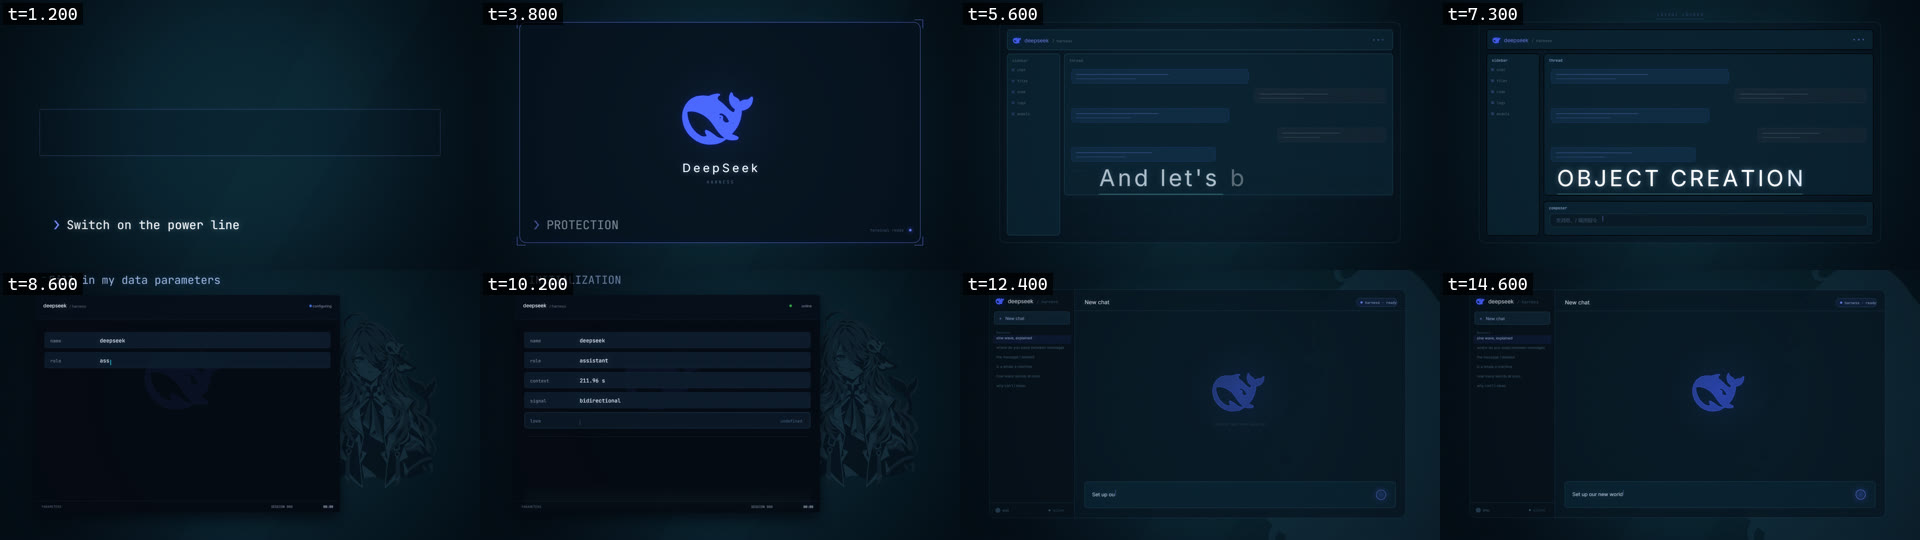
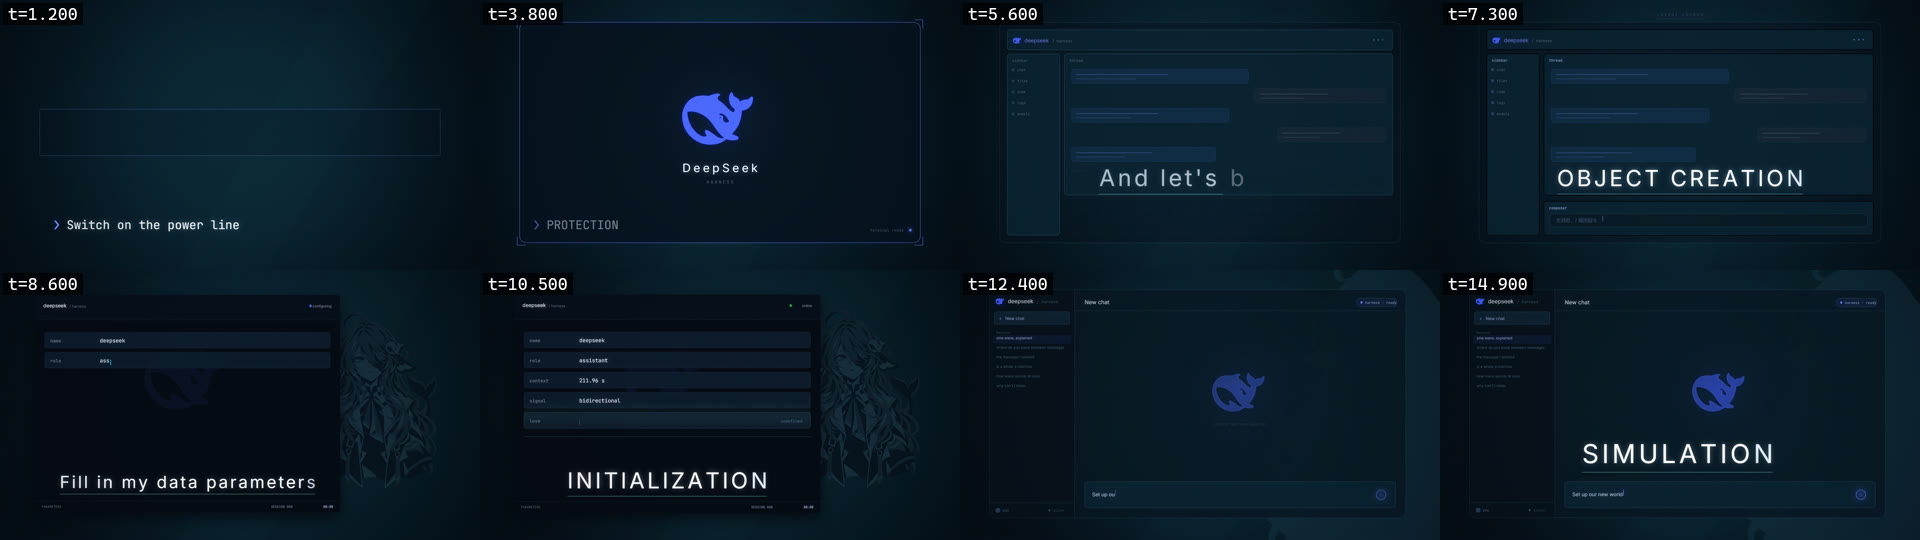
Keep each lyric with its own shot, and give the big type back
Lyric lines do not start on shot boundaries: L7 begins 0.25 s before boot-layout cuts, so choosing the line by time alone let the outgoing shot display the incoming shot's words -- the same line appeared on both sides of the cut. A shot may now only show lines it declares in its own line range, and a line that began before the cut starts when the shot does, so the typewriter begins with the picture instead of mid-word. The cost is a quarter second with no lyric before those cuts, which is better than a line that belongs to a shot that has not started.

boot-params moves off the top margin -- it read as a title rather than a line -- and becomes display type at the bottom centre of the card window, clear of the footer.

boot-world had been reduced to embedded typing only, which silently dropped L10 and L11 and with them the big SIMULATION moment the shot exists for. It now types L9 into the composer and sets L10 and L11 as display type in the empty conversation area above it, so the section ends on the line it is named after.

diff --git a/newProj_v1017/src/main.js b/newProj_v1017/src/main.js
@@ -169,6 +169,26 @@ function gradeOptions(t, diag, shot) {
 }
 
 /** Render one frame. Pure in t: same t always yields the same pixels. */
+/**
+ * The lyric line for this frame, clipped to the shot that owns it.
+ *
+ * Lines do not start exactly on shot boundaries: L7 begins 0.25 s before
+ * boot-layout cuts, so choosing by time alone let the outgoing shot display the
+ * incoming shot's words. A shot may only show lines it declares; a line that
+ * began before the cut starts when the shot does, so the typewriter begins with
+ * the picture rather than mid-word.
+ */
+function lyricFor(t, shot, plan) {
+  const raw = lineAt(t);
+  if (!raw) return null;
+  const idx = raw.index + 1;
+  if (shot.lines && (idx < shot.lines[0] || idx > shot.lines[1])) return null;
+  if (plan.embeddedLines && plan.embeddedLines.includes(idx)) return null;
+  const start = Math.max(raw.start, shot.at);
+  const end = Math.min(raw.end ?? raw.start + 3, shot.until);
+  return end > start ? { ...raw, start, end } : null;
+}
+
 function renderFrame(t) {
   const plan = planAt(t);
   const shot = plan.cur;
@@ -186,13 +206,13 @@ function renderFrame(t) {
     stage.setTransition(null);
   }
 
-  const line = lineAt(t);
+  const lyricPlan = lyricPlanFor(shot);
+  const line = lyricFor(t, shot, lyricPlan);
   const opts = gradeOptions(t, diag, shot);
   diag.lyrics = lines.length;
   diag.captionLine = line ? line.index : null;
   // Lyrics are drawn by the stage after the composite, but placed by the shot's
   // own plan: no band, no fixed baseline, so the picture can use the whole frame.
-  const lyricPlan = lyricPlanFor(shot);
   stage.present(stageCanvas, t, opts, (c) => {
     if (!line) return;
     const drew = drawLyric(c, { ...lyricPlan, line }, t);

diff --git a/newProj_v1017/shots/lyric-plan.js b/newProj_v1017/shots/lyric-plan.js
@@ -25,10 +25,14 @@ export const LYRIC_BY_SHOT = Object.freeze({
   "boot-power": { style: "typed", size: 48, align: "left", anchor: [214, 916] },
   // the line as display type across the foot of the assembled window
   "boot-layout": { style: "display", size: 92, align: "center", anchor: [960, 744], maxWidth: 980, rule: true },
-  // a print-style note in the frame's own top margin, above the card
-  "boot-params": { style: "margin", size: 44, align: "left", anchor: [196, 56] },
-  // this shot types its line into the composer itself
-  "boot-world": { style: "embedded" },
+  // bottom-centre of the card window: the top margin read as a title, not a line
+  "boot-params": { style: "display", size: 88, align: "center", anchor: [750, 872], maxWidth: 1020, rule: true },
+  // the composer types its first line itself; the rest of the section gets the
+  // big type back, which is the moment this shot is here for
+  "boot-world": {
+    style: "display", size: 104, align: "center", anchor: [950, 772], maxWidth: 1120,
+    rule: true, embeddedLines: [9],
+  },
 });
 
 /** The plan for a shot, with the line attached by the caller. */
